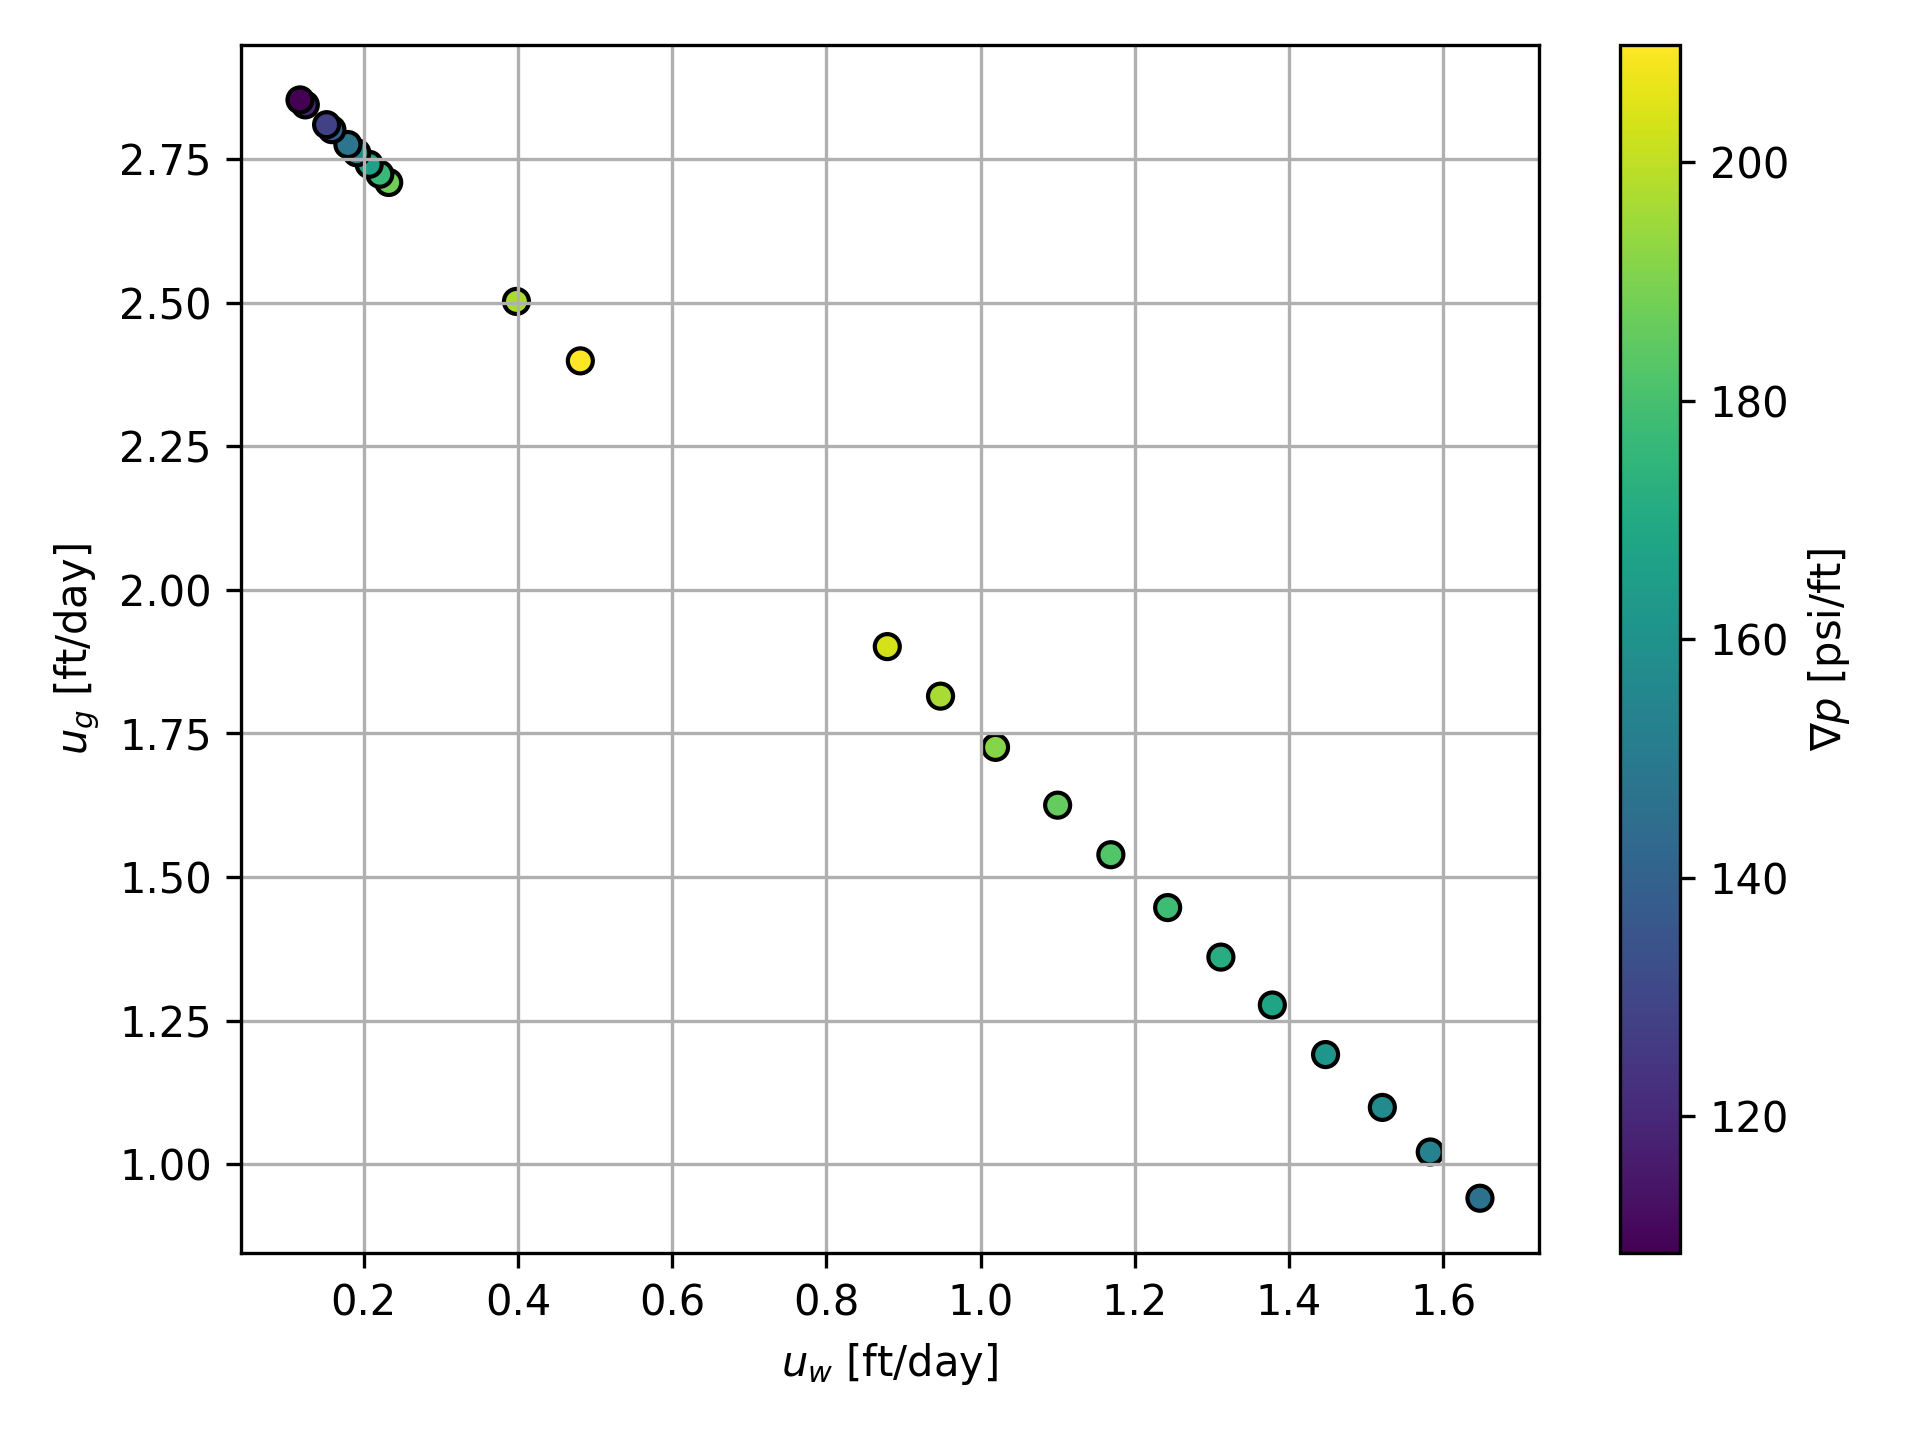
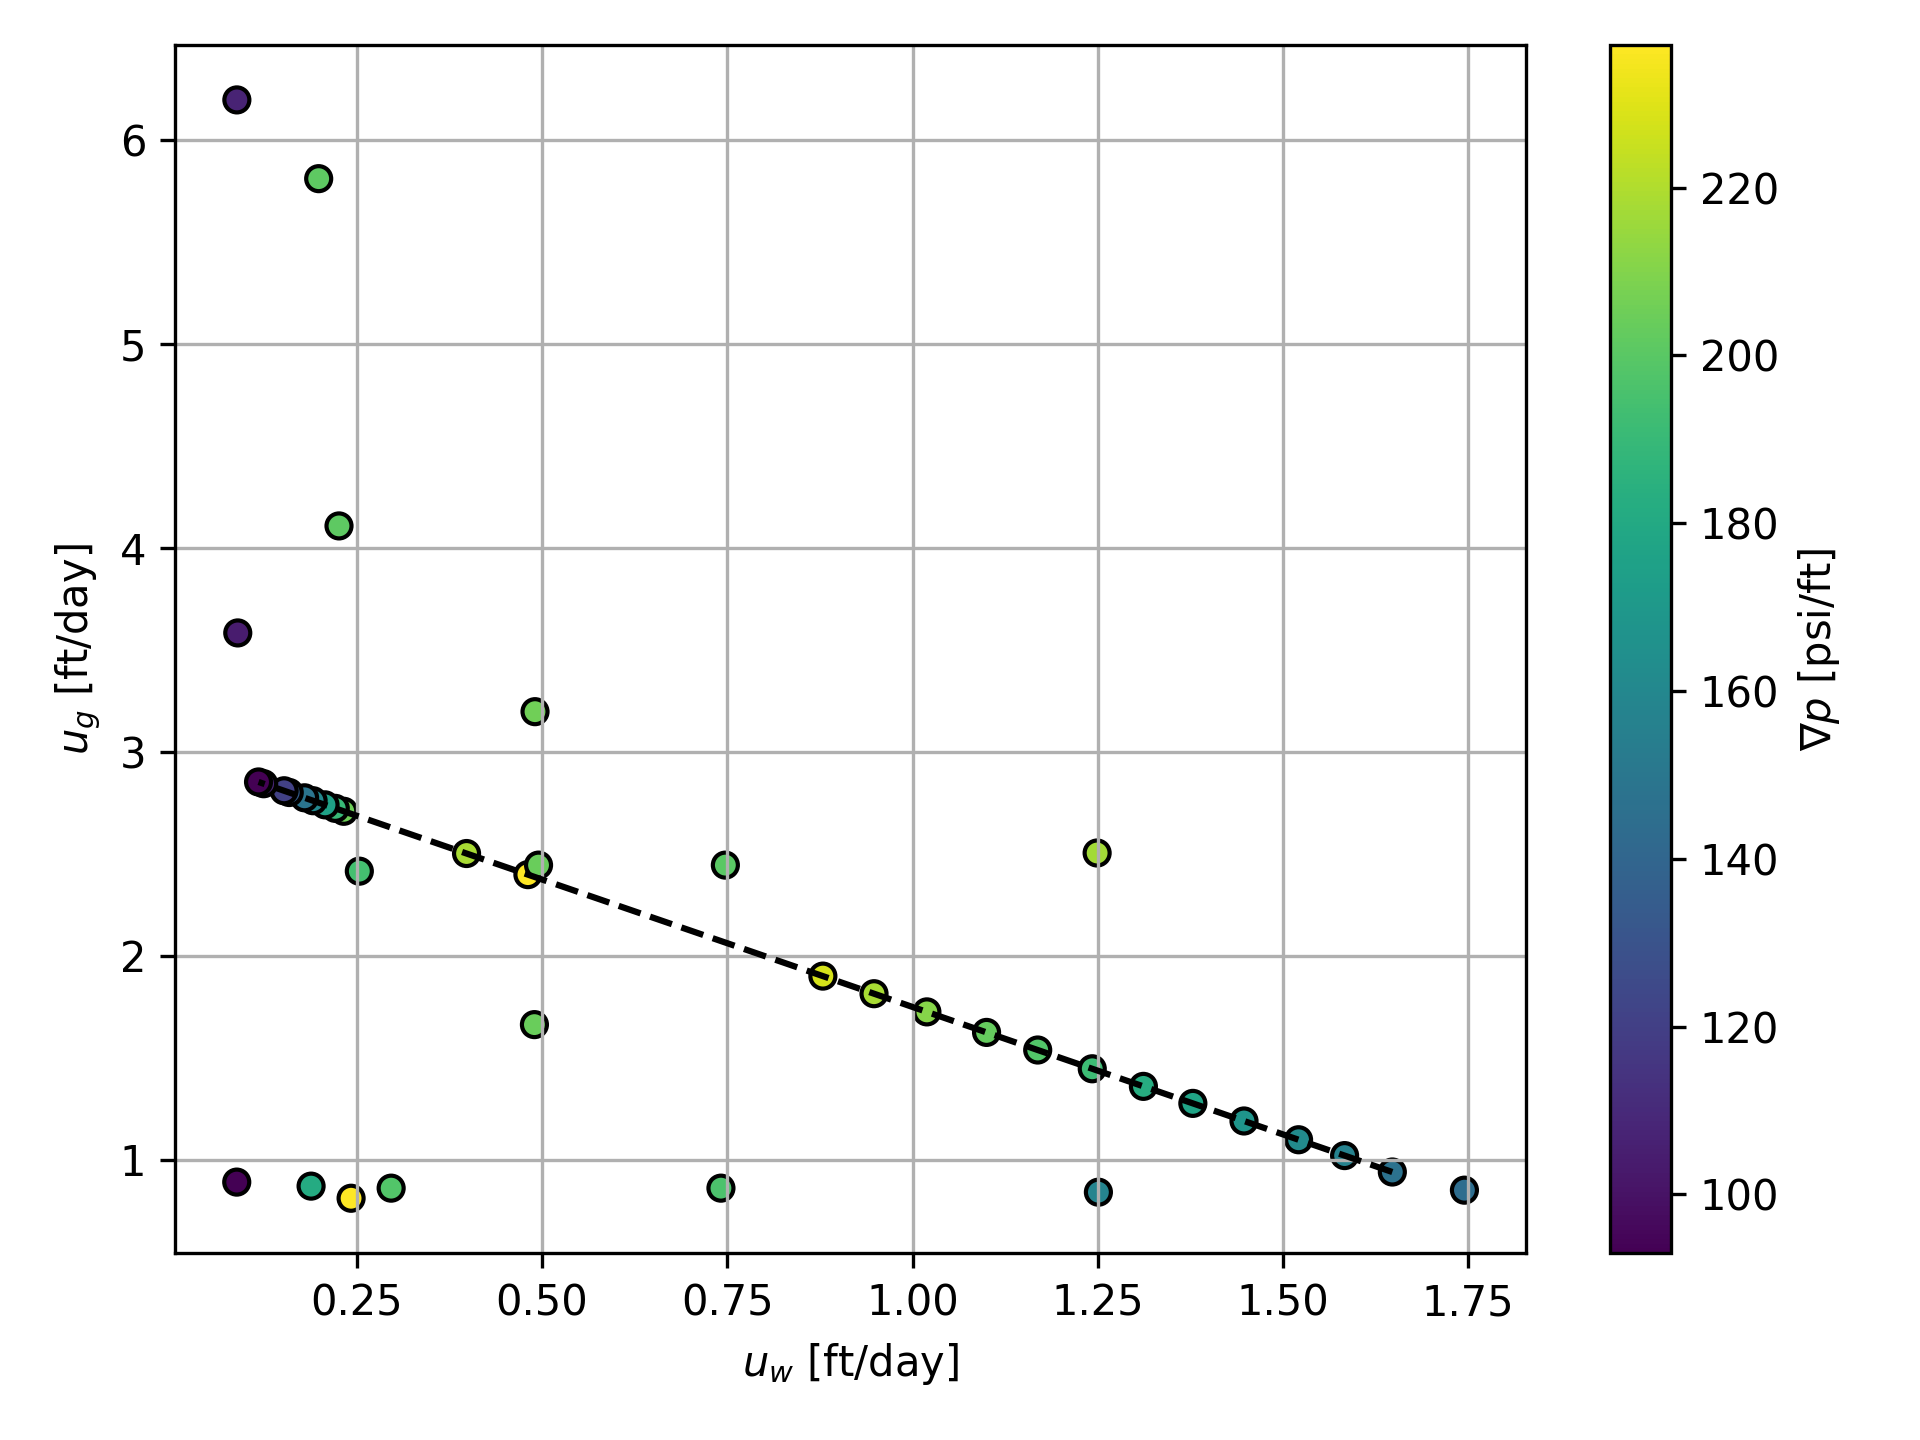
Plotting gradP vs uw_ug graph

diff --git a/exploratory.py b/exploratory.py
@@ -1,7 +1,7 @@
 import numpy as np
 import matplotlib.pyplot as plt
 import json
-
+from scipy.interpolate import griddata
 from scipy.optimize import minimize_scalar
 
 class RelativePermeability:
@@ -126,7 +126,29 @@ if __name__ == '__main__':
     ut_calc = uw + ug + uo 
 
     ## SCATTER PLOT
+    uwug = np.array([
+        [0.08793709559635210, 0.8910891089108910,  93],
+        [0.18826995907137890, 0.8712871287128712, 181],
+        [0.24227026476232538, 0.8118811881188117, 237],
+        [0.29632661379345480, 0.8613861386138622, 198],
+        [0.74143810607475850, 0.8613861386138622, 196],
+        [1.25086187864069440, 0.8415841584158423, 158],
+        [1.74486354295807010, 0.8514851485148514, 144],
+        [1.24914491449144950, 2.5049504950495054, 217],
+        [0.74739907953059460, 2.4455445544554450, 200],
+        [0.48970670651970870, 1.6633663366336630, 204],
+        [0.49525499719783317, 2.4455445544554450, 204],
+        [0.49049640813137940, 3.1980198019801980, 206],
+        [0.25338722551500437, 2.4158415841584160, 194],
+        [0.08932289455360631, 3.5841584158415842, 104],
+        [0.22595655791994296, 4.1089108910891090, 201],
+        [0.19853098517398915, 5.8118811881188130, 201],
+        [0.08809503591868623, 6.1980198019801980, 107]
+    ])
+    
     scatter = plt.scatter(uw*283465, ug*283465, c=np.abs(gradP)*4.419e-5, cmap='viridis', edgecolor='k')
+    scatter = plt.scatter(uwug[:,0], uwug[:,1], c=uwug[:,2], cmap='viridis', edgecolor='k')
+    plt.plot([uw[0]*283465, uw[-1]*283465], [ug[0]*283465, ug[-1]*283465], 'k--')
     cbar = plt.colorbar(scatter)
     cbar.set_label(r'$\nabla p$ [psi/ft]')
     plt.xlabel(r'$u_w$ [ft/day]')
@@ -135,6 +157,29 @@ if __name__ == '__main__':
     plt.tight_layout()
     # plt.show()
     plt.savefig('uwug_gradP.png', dpi=300)
+    plt.close()
+
+
+    ## GRIDDATA
+    uw_grid = np.linspace(min(uwug[:,0]), max(uwug[:,0]), 200)
+    ug_grid = np.linspace(min(uwug[:,1]), max(uwug[:,1]), 200)
+    uw_mesh, ug_mesh = np.meshgrid(uw_grid, ug_grid)
+    grid_points = np.column_stack((uwug[:,0], uwug[:,1]))
+    grad_P_grid = griddata(grid_points, uwug[:,2], (uw_mesh, ug_mesh), method='linear')
+    contourf = plt.contourf(uw_mesh, ug_mesh, grad_P_grid, levels=10, cmap='jet')
+    plt.scatter(uwug[:,0], uwug[:,1], c=uwug[:,2], cmap='jet', edgecolor='k')
+    scatter = plt.scatter(uw*283465, ug*283465, c=np.abs(gradP)*4.419e-5, cmap='jet', edgecolor='k')
+    plt.plot([uw[0]*283465, uw[-1]*283465], [ug[0]*283465, ug[-1]*283465], 'k--')
+    cbar = plt.colorbar(contourf)
+    cbar.set_label('Pressure Gradient')
+    plt.xlabel(r'$u_w$ [ft/day]')
+    plt.ylabel(r'$u_g$ [ft/day]')
+    plt.grid(True)
+    plt.tight_layout()
+    plt.xlim([0,1.8])
+    plt.ylim([0,7])
+    # plt.show()
+    plt.savefig('uwug_gradP_griddata.png', dpi=300)
     plt.close()
 
     plt.plot(fg,uw*283465,c='b',label=r'$u_w$')
